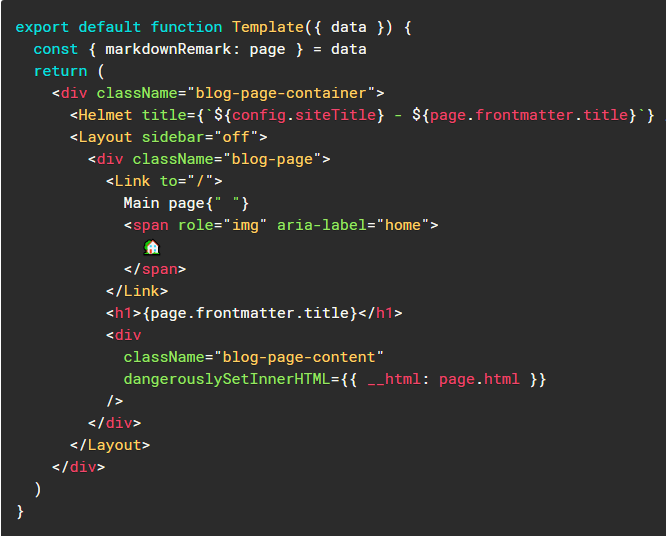
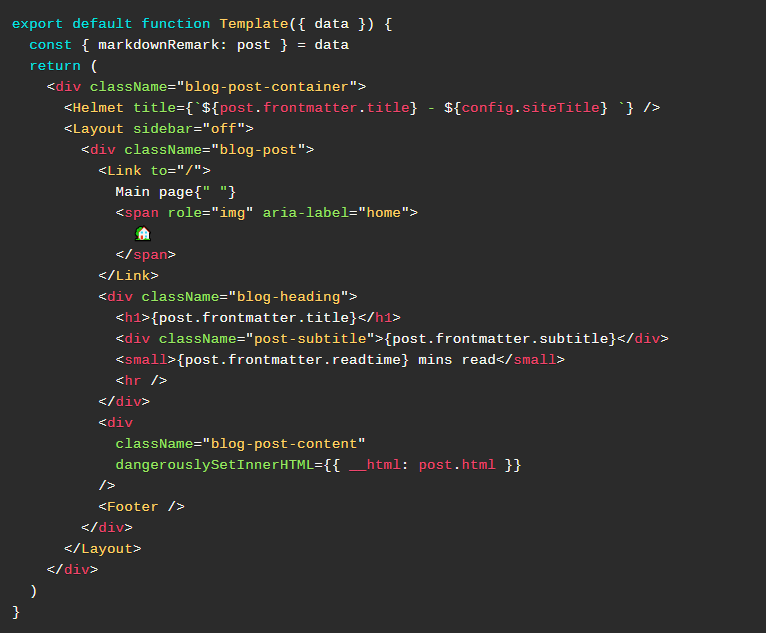
edited font

Changed region(s): [[0.0, 0.0299, 0.991, 0.9552], [0.0, 0.9552, 0.03, 0.9851]]

diff --git a/prism-mokaidia.css b/prism-mokaidia.css
@@ -10,10 +10,10 @@ pre[class*="language-"] {
 	color: #f8f8f2;
 	background: none;
 	text-shadow: 0 1px rgba(0, 0, 0, 0.315);
-	font-family: 'Roboto Mono', Consolas, Monaco, 'Andale Mono', 'Ubuntu Mono', monospace;
-	font-size: 0.75rem;
+	font-family: 'Cousine', Consolas, Monaco, 'Andale Mono', 'Ubuntu Mono', monospace;
+	font-size: 0.8rem;
 	text-align: left;
-	white-space: pre;
+	white-space: pre-wrap;
 	word-spacing: normal;
 	word-break: normal;
 	word-wrap: normal;
@@ -49,7 +49,7 @@ pre[class*="language-"] {
 	white-space: normal;
 	background: rgb(236, 235, 231);
 	color: #2B2B2B;
-	font-size: 0.9rem;
+	font-size: 0.95rem;
 }
 
 .token.comment,
